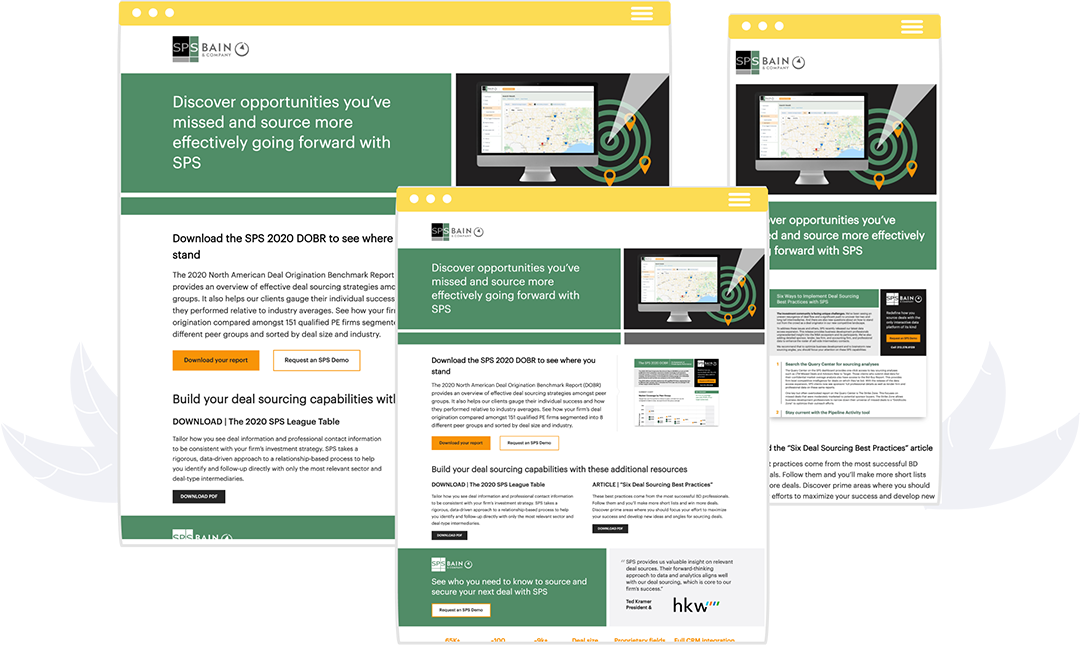
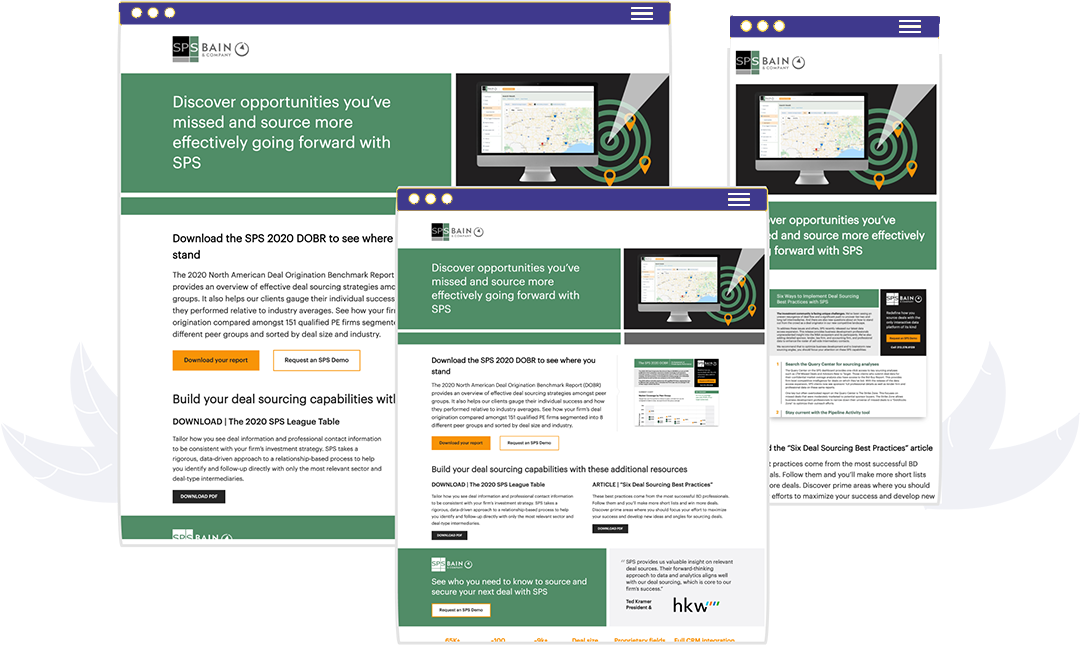
update

Changed region(s): [[0.0917, 0.0, 0.6417, 0.062], [0.3667, 0.2791, 0.7333, 0.3411], [0.6722, 0.0, 0.8861, 0.062]]

diff --git a/assets/style.css b/assets/style.css
@@ -96,7 +96,7 @@
         margin:0 auto;
     }
     .yellow{
-        color:#FCDC54;
+        color:#353166;
     }
     .button{
         display: inline-block;
@@ -106,14 +106,13 @@
         text-align: center;
         border-radius: 3px;
         text-decoration: none;
-        color:#333;
+        color: #fff;
         font-weight: 600;
-        border: 1px solid #FCDC54;
+        border: 1px solid #353166;
         position: relative;
         z-index: 1;
         overflow: hidden;
         transition: 0.8s;
-       
     }
     .button:after {
     position: absolute;
@@ -121,7 +120,7 @@
     top: 0;
     height: 100%;
     width: 110%;
-    background: #FCDC54;
+    background: #353166;
     content: "";
     z-index: -1;
     transition: 0.8s;
@@ -134,7 +133,7 @@
     top: 0;
     height: 100%;
     width: 110%;
-    background: #FCDC54;
+    background: #353166;
     content: "";
     z-index: -1;
     transition: 0.8s;
@@ -145,7 +144,7 @@
    
 }
 .button:hover{
-    color:#FCDC54;
+    color:#353166;
    
 }
 .button:hover:before{
@@ -190,7 +189,7 @@
     height: 100%;
     min-height: 40px;
     max-height: 40px;
-    border: 1px solid #fcdc54;
+    border: 1px solid #353166;
     padding: 8px 16px;
     display: -webkit-box;
     display: -ms-flexbox;
@@ -219,7 +218,7 @@
     background: #fff;
     padding: 8px 0px;
     margin-bottom: 77px;
-    border-bottom: 1px solid #fcdc54;
+    border-bottom: 1px solid #353166;
     /* box-shadow: -1px -3px 11px 0px #3e3c379e; */
 }
 .client-compnay-logo-wrap {
@@ -249,8 +248,10 @@ section.protfolio-area {
     display: -ms-flexbox;
     display: flex;
     -webkit-box-align: center;
-        -ms-flex-align: center;
-            align-items: center;
+    -ms-flex-align: center;
+    align-items: center;
+    flex-wrap: wrap;
+    gap: 16px 0px;
 }
 
 .isotop-buttons ul li {
@@ -278,7 +279,7 @@ section.protfolio-area {
     bottom: 0;
     width: 132px;
     height: 2px;
-    background: #fcdc54;
+    background: #353166;
     content: "";
 }
 
@@ -326,13 +327,13 @@ section.protfolio-area {
 } */
 
 li.active {
-    border: 1px solid #fcdc54 !important;
+    border: 1px solid #353166 !important;
     border-radius: 15px;
-    color: #fcdc54;
+    color: #353166;
 }
 
 .isotop-buttons ul li:hover {
-    color: #fcdc54;
+    color: #353166;
 }
 .single-project-image a {
     position: absolute;
